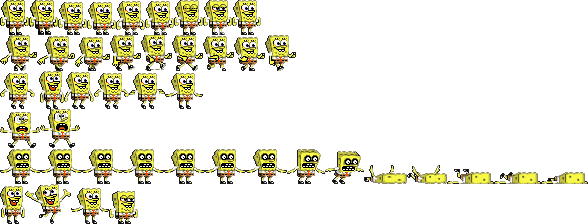
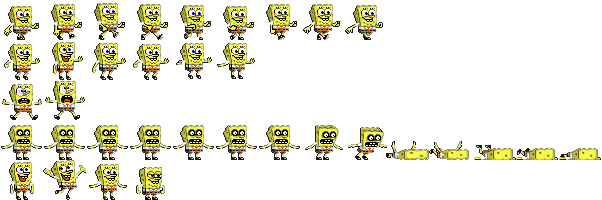
Novos sprites e abstração de código aprimorada

diff --git a/main.c b/main.c
@@ -20,7 +20,7 @@
 
 #define MAX_TIROS 100
 #define MAX_BOLHAS 10
-#define INTERVALO_BOLHAS 4
+#define INTERVALO_BOLHAS 3
 
 
 /* Define as variaveis do jogo */
@@ -63,16 +63,17 @@ int main(int argc, char *argv[]) {
   //Define valores iniciais
   protagonista.x = 50;
   protagonista.y = 0;
-  protagonista.escala = 2;
-  protagonista.sprite = 4;  
+  protagonista.altura = (40 * 3);
+  protagonista.largura = (43 * 3);
+  protagonista.sprite = 0;
+  protagonista.sprite_linha = 0;
   protagonista.vivo = true;
   protagonista.visivel = true;
   protagonista.viradoEsquerda = false;
   
-  inimigo.x = 250;
-  inimigo.y = 100;
-  inimigo.escala = 2;
-  inimigo.sprite = 4;
+  inimigo.x = 1100;
+  inimigo.y = 560;
+  inimigo.sprite = 0;
   inimigo.viradoEsquerda = true;
   inimigo.vivo = true;
   inimigo.visivel = true;
@@ -192,13 +193,13 @@ void adicionar_bolha_aleatoria() {
   if (indices >= 0) {
     int i = indices;
     bolhas[i] = malloc(sizeof(Bolha));
-    bolhas[i]->velocidade = obter_numero_aleatorio(1, 20) / 5;
+    bolhas[i]->velocidade = obter_numero_aleatorio(5, 20) / 5;
     bolhas[i]->tamanho = obter_numero_aleatorio(50, 100);
     bolhas[i]->base = bolhas[i]->x = obter_numero_aleatorio(0, (LARGURA - (bolhas[i]->tamanho * 2)));
     bolhas[i]->inverter = false;
     bolhas[i]->y = ALTURA;
   } else {
-    printf("sem bolhas!!\n");
+    printf("Não tem bolhas\n");
   }
 }
 
@@ -265,6 +266,64 @@ void remover_tiros(int i) {
 }
 
 
+/* funções de física personagem */
+
+void protagonista_fisica(Personagem *personagem, const Uint8 *estado) {
+  if (estado[SDL_SCANCODE_LEFT]) {
+    personagem_andar(personagem, true);
+  } else if (estado[SDL_SCANCODE_RIGHT]) {
+    personagem_andar(personagem, false);
+  } else if (!personagem->pulando) {
+    personagem_parado(personagem);
+  }
+
+  if (estado[SDL_SCANCODE_SPACE]) {
+    if (tempoGlobal % 6 == 0) {
+      if (!personagem->viradoEsquerda) {
+        adicionar_tiro(personagem->x+70, personagem->y+40, 10); 
+      } else {
+        adicionar_tiro(personagem->x, personagem->y+40, -10);
+      }
+    }
+    personagem->atirando = true;
+  } else {
+    personagem->atirando = false;
+  }
+
+  if (estado[SDL_SCANCODE_UP] && !personagem->pulando) {
+    personagem->pulando = true;
+    personagem->sprite = 0;
+    personagem->dy = -8;
+  }
+
+  if (personagem->pulando) {
+    personagem->sprite_linha = 40;
+    if (tempoGlobal % 6 == 0 && personagem->sprite < 5) {
+        personagem->sprite++;
+    }
+  } else {
+    personagem->sprite_linha = 0;
+    //personagem->sprite = 0;
+  }
+}
+
+void personagem_andar(Personagem *personagem, bool esquerda) {
+  personagem->x += (esquerda ? -4 : 4);
+  personagem->andando = true;
+  personagem->viradoEsquerda = esquerda;
+  
+  if (tempoGlobal % 6 == 0) {
+    if (!personagem->pulando) {
+      personagem->sprite++;
+      personagem->sprite %= 8;
+    } 
+  }
+}
+
+void personagem_parado(Personagem *personagem) {
+  personagem->sprite = 0;
+  personagem->andando = false;
+}
 /* Função para processar os eventos do jogador */
 
 bool processar_eventos() {
@@ -299,57 +358,7 @@ bool processar_eventos() {
   }
   
   const Uint8 *estado = SDL_GetKeyboardState(NULL);
-
-  if (!protagonista.atirando) {
-
-    if (estado[SDL_SCANCODE_LEFT]) {
-
-      protagonista.x -= 3;
-      protagonista.andando = true;
-      protagonista.viradoEsquerda = true;
-    
-      if (tempoGlobal % 6 == 0) {
-        protagonista.sprite++;
-        protagonista.sprite %= 4;  
-      }
-
-    } else if (estado[SDL_SCANCODE_RIGHT]) {
-      protagonista.x += 3;
-      protagonista.andando = true;
-      protagonista.viradoEsquerda = false;
-     
-      if (tempoGlobal % 6 == 0) {
-        protagonista.sprite++;
-        protagonista.sprite %= 4;  
-      }
-
-    } else {
-      protagonista.andando = false;
-      protagonista.sprite = 4;
-    }
-  }
-
-  if (!protagonista.andando) {
-    if (estado[SDL_SCANCODE_SPACE]) {
-      if (tempoGlobal % 6 == 0) {
-        protagonista.sprite = ((protagonista.sprite == 4) ? 5 : 4);
-        if (!protagonista.viradoEsquerda) {
-          adicionar_tiro(protagonista.x+70, protagonista.y+40, 10); 
-        } else {
-          adicionar_tiro(protagonista.x, protagonista.y+40, -10);
-        }
-      }  
-  
-      protagonista.atirando = true;
-    } else {
-      protagonista.sprite = 4;  
-      protagonista.atirando = false;
-    }
-  }
-  
-  if (estado[SDL_SCANCODE_UP] && !protagonista.dy) {
-    protagonista.dy = -8;
-  }
+  protagonista_fisica(&protagonista, estado);
   if (estado[SDL_SCANCODE_DOWN]) {
     //protagonista.y += 10;
   }
@@ -379,15 +388,15 @@ void renderizar() {
 
   //Copia o personagem protagonista para o renderer de acordo com o sprite atual
   if (protagonista.visivel) {
-    SDL_Rect srcRect = { 40*protagonista.sprite, 0, 40, 50 };
-    SDL_Rect rect = { protagonista.x, protagonista.y, 40*protagonista.escala, 50*protagonista.escala };
+    SDL_Rect srcRect = { 43*protagonista.sprite, protagonista.sprite_linha, 43, 40 };
+    SDL_Rect rect = { protagonista.x, protagonista.y, protagonista.largura, protagonista.altura };
     SDL_RenderCopyEx(renderer, protagonista.textura, &srcRect, &rect, 0, NULL, protagonista.viradoEsquerda);
   }
 
   //Copia o personagem inimigo para o renderer de acordo com o sprite atual
   if (inimigo.visivel) {
-    SDL_Rect eSrcRect = { 40*inimigo.sprite, 0, 40, 50 };
-    SDL_Rect eRect = { inimigo.x, inimigo.y, 40*inimigo.escala, 50*inimigo.escala };
+    SDL_Rect eSrcRect = { 52*inimigo.sprite, 0, 52, 81 };
+    SDL_Rect eRect = { inimigo.x, inimigo.y, 52 * 2, 81 * 2 };
     SDL_RenderCopyEx(renderer, inimigo.textura, &eSrcRect, &eRect, 0, NULL, inimigo.viradoEsquerda);
   }
 
@@ -406,10 +415,11 @@ void verificar_fisica() {
 
   for (int i = 0; i < LIMITE_DE_OBJETOS_NO_MAPA; i++) if (mapa.objetos[i]) {
 
-    int altura_do_personagem = 50 * protagonista.escala;
+    int altura_do_personagem = protagonista.altura;
     if (mapa.objetos[i]->solido && (protagonista.y > (mapa.objetos[i]->y + mapa.objetos[i]->altura - altura_do_personagem))) {
       protagonista.y = (mapa.objetos[i]->y + mapa.objetos[i]->altura) - altura_do_personagem;
       protagonista.dy = 0;
+      protagonista.pulando = false;
       break;
     }
     
@@ -424,7 +434,7 @@ void verificar_fisica() {
     tiros[i]->x += tiros[i]->dx;
     
     //Verifica se o tiro acertou o inimigo
-    if (tiros[i]->x > inimigo.x && tiros[i]->x < inimigo.x+40 && tiros[i]->y > inimigo.y && tiros[i]->y < inimigo.y+50) {
+    if (tiros[i]->x > inimigo.x && tiros[i]->x < inimigo.x+(52 * 2) && tiros[i]->y > inimigo.y && tiros[i]->y < inimigo.y+(81 * 2)) {
       inimigo.vivo = false;
     }
     
@@ -435,13 +445,13 @@ void verificar_fisica() {
   }
   
   if ((!inimigo.vivo) && tempoGlobal % 6 == 0) {
-    if (inimigo.sprite < 6) {
-      inimigo.sprite = 6;
-    } else if (inimigo.sprite >= 6) {
+    if (inimigo.sprite < 1) {
+      inimigo.sprite = 1;
+    } else if (inimigo.sprite >= 1) {
       inimigo.sprite++;
-      if (inimigo.sprite > 7) {
+      if (inimigo.sprite > 2) {
         inimigo.visivel = false;
-        inimigo.sprite = 7;      
+        inimigo.sprite = 2;      
       }
     }
   }
@@ -451,7 +461,7 @@ void verificar_fisica() {
 
 void carregar_assets() {
   //Carrega imagem do protagonista
-  SDL_Surface *imagem = IMG_Load("assets/imagens/protagonista-1.png");
+  SDL_Surface *imagem = IMG_Load("assets/imagens/bob.png");
   protagonista.textura = SDL_CreateTextureFromSurface(renderer, imagem);  
   SDL_FreeSurface(imagem);
 

diff --git a/funcoes.h b/funcoes.h
@@ -1,6 +1,7 @@
 #include <SDL2/SDL.h>
 #include <SDL2/SDL_image.h>
 #include <SDL2/SDL_mixer.h>
+#include "estrutura.h"
 
 #ifndef FUNCOES_H
 #define FUNCOES_H
@@ -10,13 +11,17 @@ bool processar_eventos();
 void atualizar_temporizadores();
 void atualizar_intervalos(int timestamp);
 void carregar_assets();
-void verificar_fisica();
 void adicionar_bolha_aleatoria();
 void renderizar_bolhas_aleatorias();
 void remover_bolhas_aleatorias();
+void verificar_fisica();
+void protagonista_fisica(Personagem *personagem, const Uint8 *estado);
+void personagem_andar(Personagem *personagem, bool esquerda);
+void personagem_parado(Personagem *personagem);
 void adicionar_tiro(float x, float y, float dx);
 void renderizar_tiros();
 void remover_tiros();
+
 int obter_numero_aleatorio(int minimo, int maximo);
 
 #endif

diff --git a/estrutura.h b/estrutura.h
@@ -11,9 +11,8 @@ typedef struct {
   float x, y, dy;
   short vida;
   char *nome;
-  int sprite;
-  float escala;
-  bool vivo, andando, viradoEsquerda, atirando, visivel;
+  int sprite, sprite_linha, altura, largura;
+  bool vivo, andando, pulando, viradoEsquerda, atirando, visivel;
   
   SDL_Texture *textura;
 } Personagem;
